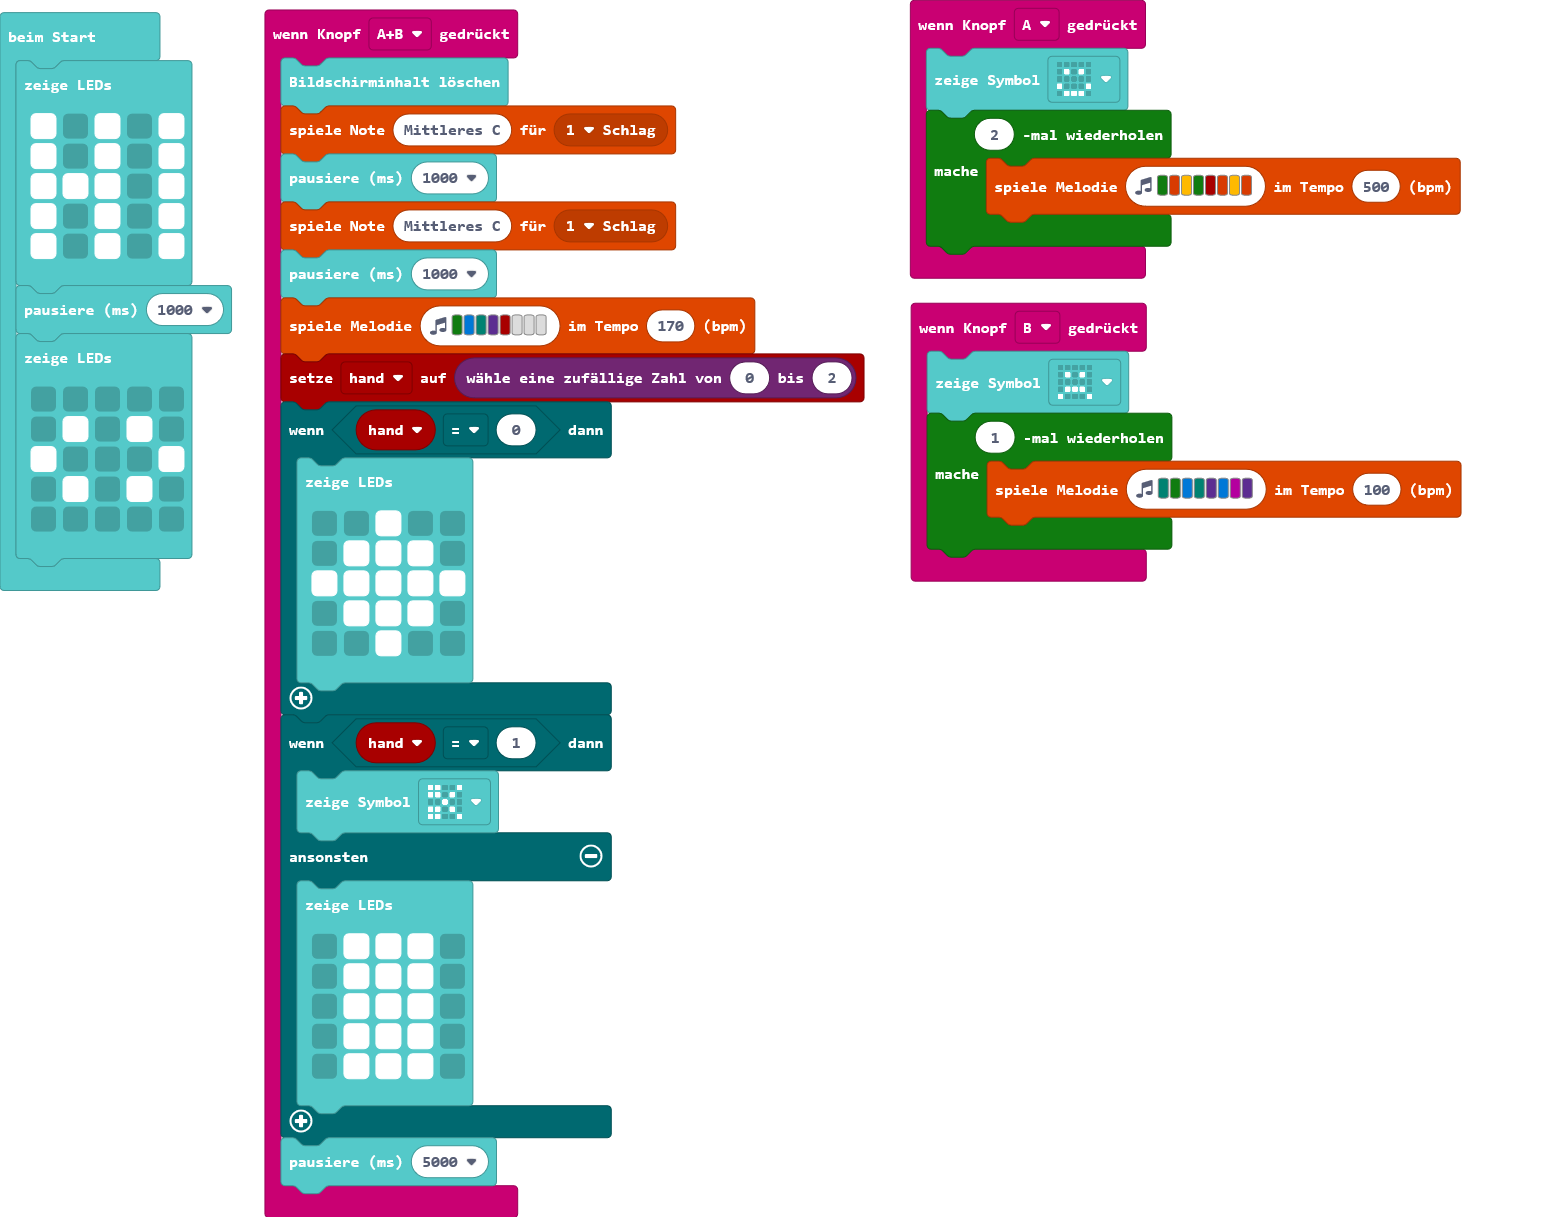
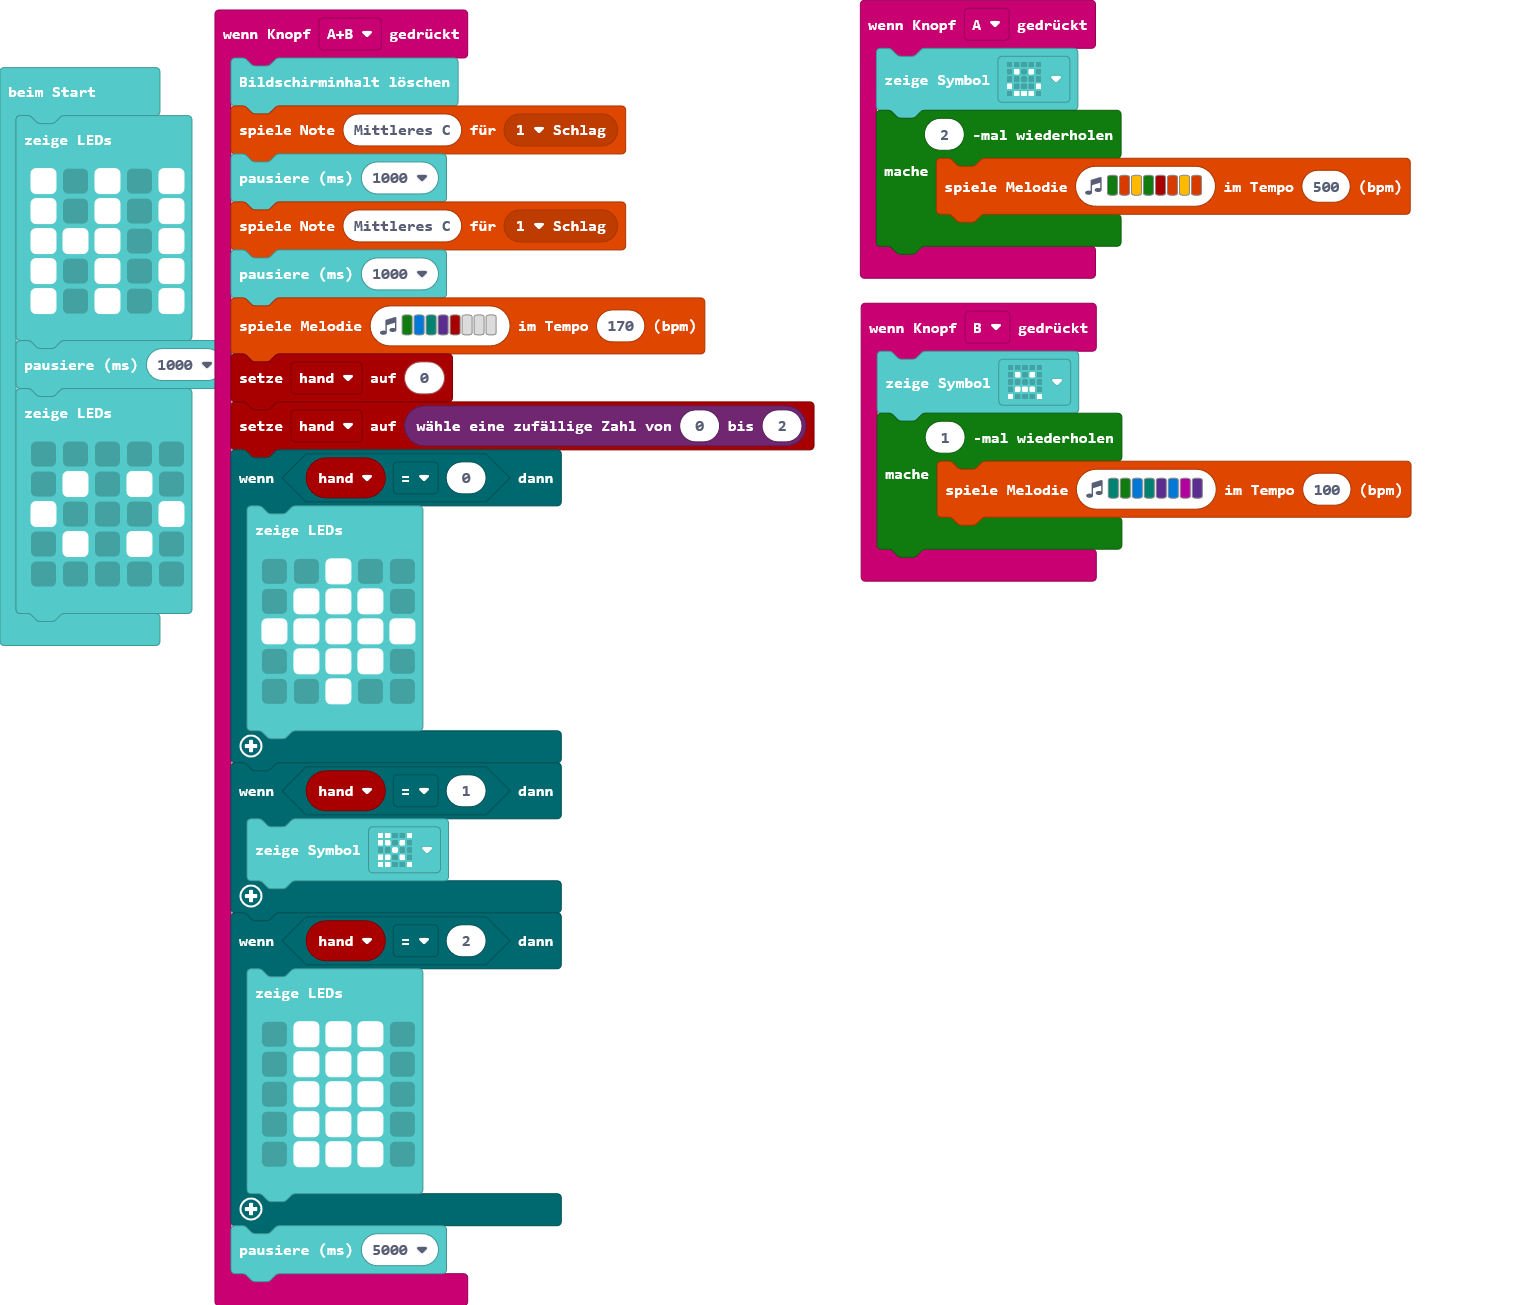
Aktualisiere main.blocks, main.ts

Changed region(s): [[0.0, 0.0, 0.9617, 1.0]]

diff --git a/main.ts b/main.ts
@@ -11,6 +11,7 @@ input.onButtonPressed(Button.AB, function () {
     music.playTone(262, music.beat(BeatFraction.Whole))
     basic.pause(1000)
     music.playMelody("G E F D C5 - - - ", 170)
+    hand = 0
     hand = randint(0, 2)
     if (hand == 0) {
         basic.showLeds(`
@@ -23,7 +24,8 @@ input.onButtonPressed(Button.AB, function () {
     }
     if (hand == 1) {
         basic.showIcon(IconNames.Scissors)
-    } else {
+    }
+    if (hand == 2) {
         basic.showLeds(`
             . # # # .
             . # # # .
